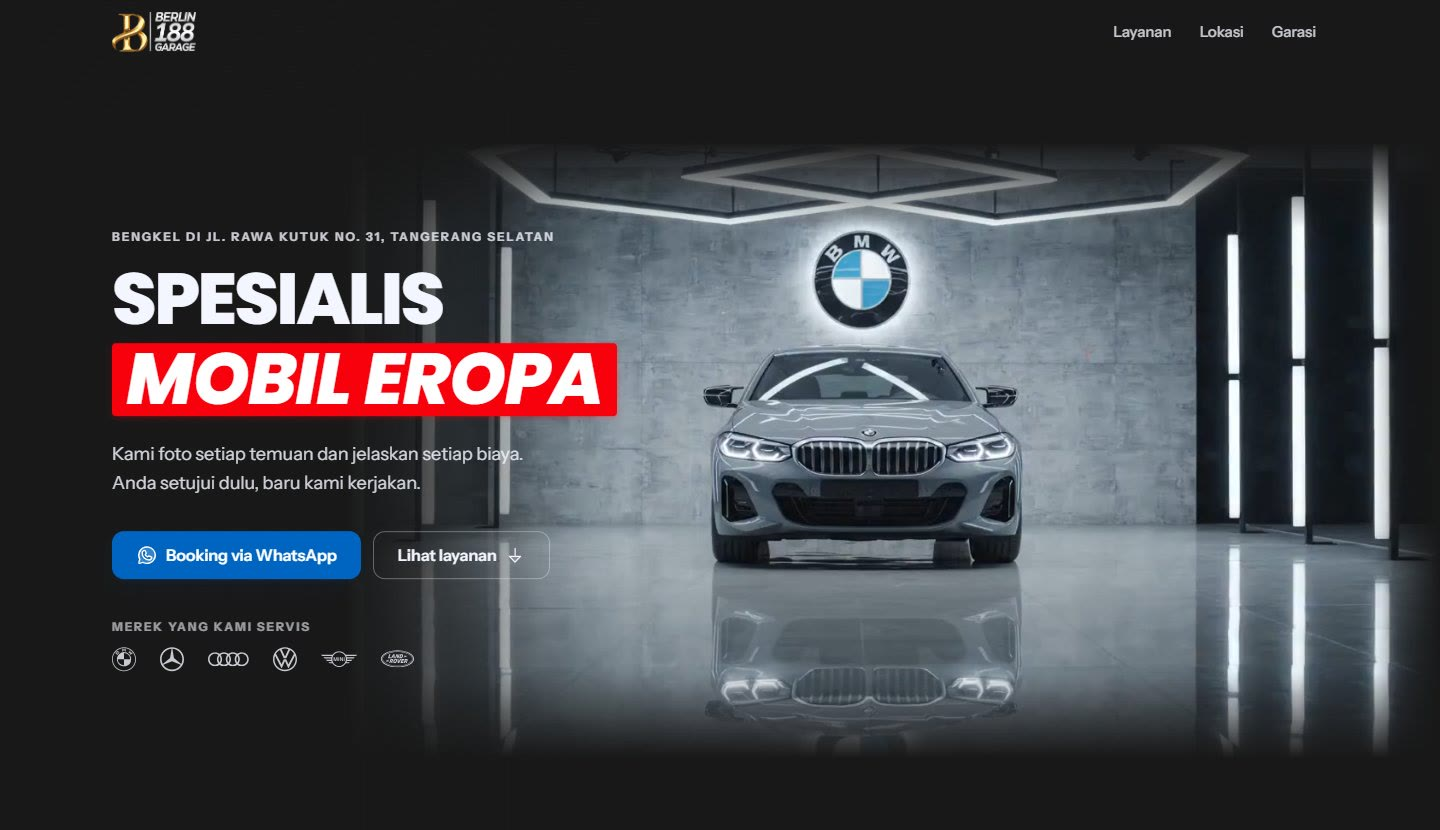
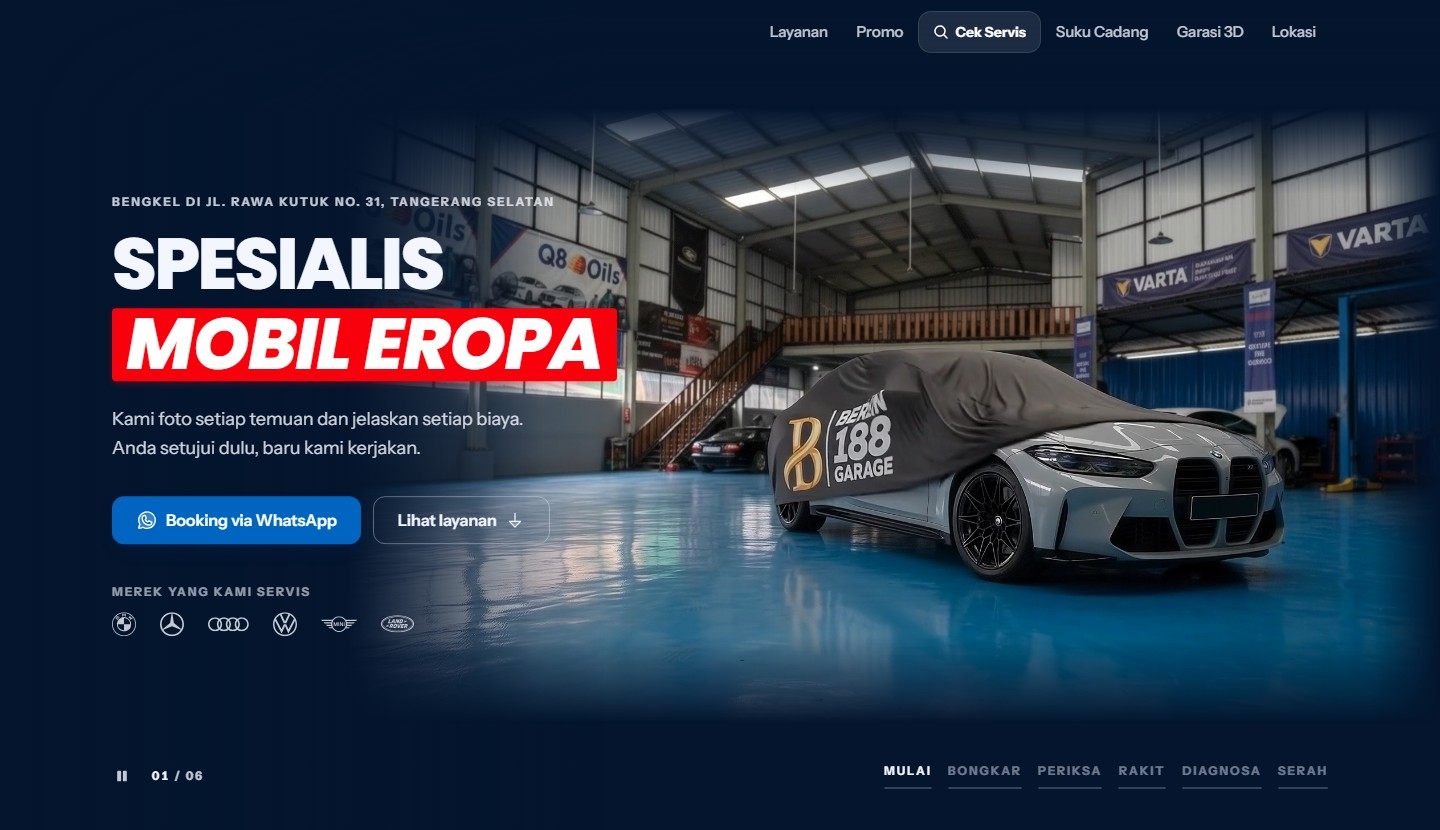
feat: keep only four live projects in Featured Work
- Keep Berlin 188 Garage, Robotshow.id, WaifuNova, and PT Trida Kimia Sakti

- Drop JagoBrand, BugHunter, and Alpha Gold Society entries and screenshots

- Point Berlin188 to berlin188.com (Vercel) instead of the Netlify demo

- Refresh screenshots from the live sites and remove repo links from cards

- Rewrite the section intro copy to match the new line-up

diff --git a/src/data.js b/src/data.js
@@ -160,96 +160,76 @@ export const softSkills = [
 
 export const projects = [
   {
-    id: "jagobrand",
-    title: "JagoBrand",
-    kind: "AI Content Copilot & Marketing Agent",
-    year: "2025",
+    id: "berlin188",
+    title: "Berlin 188 Garage",
+    kind: "European Car Workshop Platform",
+    year: "2026",
     summary:
-      "AI-powered content copilot engineered to craft viral copywriting, marketing hooks, and multi-platform social media posts in seconds with intelligent prompt chaining and brand voice tuning.",
+      "Public site for a European car workshop in Tangerang Selatan. The showroom opens like a garage door, the service story follows each car from teardown to handover, and every service ends in a WhatsApp booking.",
     points: [
-      "Automated viral hook generation, caption formulation, and targeted brand voice adaptation",
-      "Clean interactive dashboard with instant output preview and one-click copy workflows",
-      "Engineered with React, Vite, AI Agent prompt orchestration, and Tailwind CSS",
+      "Scroll-driven service anatomy (teardown, inspection, reassembly, diagnosis, handover) told across six European makes",
+      "Fourteen services in five groups, each with its own WhatsApp inquiry",
+      "Spare-part warehouse with 1,100+ parts, indent requests by VIN photo, and 24-hour towing",
+      "Garasi 3D, a service checker, and the Tanya Berlin assistant for visitors",
     ],
-    tech: ["React", "Vite", "AI Agent / LLMs", "Tailwind CSS", "Vercel"],
-    demo: "https://jagobrand.vercel.app/",
-    repo: "https://github.com/reyrs",
-    image: "/assets/proyek/jagobrand.jpg",
-    visual: "ai",
+    tech: ["React", "TypeScript", "GSAP ScrollTrigger", "Lenis", "Tailwind CSS", "Vercel"],
+    demo: "https://www.berlin188.com/",
+    image: "/assets/proyek/berlin188.jpg",
+    visual: "crud",
   },
   {
-    id: "bughunter",
-    title: "BugHunter",
-    kind: "Gamified Code QA & Debugging Game",
-    year: "2025",
+    id: "robotshow",
+    title: "Robotshow.id",
+    kind: "Humanoid Robot Rental Platform",
+    year: "2026",
     summary:
-      "Interactive speed-debugging web application challenging developers to spot and resolve real-world code defects, syntax errors, and race conditions before the 60-second countdown runs out.",
+      "Rental platform for AgiBot humanoid robots and robodogs at expos, malls, and product launches, complete with operators, delivery, and setup at the venue.",
     points: [
-      "Dynamic code snippet inspection across multiple difficulty tiers (Easy, Medium, Hard)",
-      "Real-time countdown timer, streak multiplier scoring, and instant diagnostic explanations",
-      "Infuses SDET testing rigor into a high-octane gamified developer experience",
+      "Fleet of five robot talents, from Humanoid Momo and Bimo to Robodog Heli, each with its own act and spec sheet",
+      "Interactive 3D casting room: rotate the robot 360°, drag limbs, and trigger scripted motions like wave, bow, handshake, and dance",
+      "AI concierge that recommends models and answers stage, pricing, and logistics questions",
+      "Trilingual content (Indonesian, English, Chinese) with booking and pricelist requests flowing into WhatsApp",
     ],
-    tech: ["Next.js", "React", "Tailwind CSS", "Lucide Icons", "Vercel"],
-    demo: "https://bug-hunter-delta.vercel.app/",
-    repo: "https://github.com/reyrs",
-    image: "/assets/proyek/bughunter.jpg",
-    visual: "game",
+    tech: ["React", "Vite", "GSAP", "Lenis", "i18n (ID / EN / 中文)", "GitHub Pages"],
+    demo: "https://robotshow.id/",
+    image: "/assets/proyek/robotshow.jpg",
+    visual: "ai",
   },
   {
     id: "waifunova",
     title: "WaifuNova",
-    kind: "Anime AI Persona Chat & Art Studio",
-    year: "2025",
+    kind: "Anime AI Companion & Art Studio",
+    year: "2026",
     summary:
-      "Next-gen generative AI companion platform featuring conversational anime character personas, contextual memory handling, and a high-fidelity WaifuArt generation studio.",
+      "Indonesian AI companion studio: pick one of five characters, chat any time, and turn a single sentence into an anime illustration.",
     points: [
-      "Interactive conversational agent with distinct persona prompts and fast streaming responses",
-      "WaifuArt generator engine integrating style controls (Detailed Anime, Manga, Chibi)",
-      "Built with Next.js, AI Agent orchestration, Tailwind CSS, and edge deployment",
+      "Five characters with their own voice, habits, and sense of humour: Sakura, Yumi, Aiko, Miku, and Reina",
+      "Per-character conversation history that continues the next day, with no sign-up or login",
+      "Illustration generator that turns one sentence about hair, outfit, and mood into anime artwork in seconds",
+      "Indonesian-first copy with light and dark themes, built on Next.js and deployed on Vercel",
     ],
     tech: ["Next.js", "AI Agents", "Prompt Engineering", "Tailwind CSS", "Vercel"],
     demo: "https://waifunova.vercel.app/",
-    repo: "https://github.com/reyrs",
     image: "/assets/proyek/waifunova.jpg",
     visual: "chat",
   },
   {
-    id: "alpha-gold",
-    title: "Alpha Gold Society",
-    kind: "VIP Gold Trading Community Platform",
-    year: "2025",
-    summary:
-      "A high-speed trading community platform where gold market traders analyze XAU/USD in real-time. Features live candlestick chart streaming, automated breakout indicators, and instant VIP signal alerts.",
-    points: [
-      "Live interactive TradingView candlestick charts with Bollinger bands & volume profiles",
-      "Integrated with Claude MCP & MetaTrader 5 (MT5) to evaluate setups against professional trader datasets",
-      "Automated signal distribution system broadcasting entry, TP, and SL targets to community traders",
-      "Successfully scaled to 20+ active VIP paying members within the first quarter",
-    ],
-    tech: ["Next.js", "Claude MCP", "MetaTrader 5", "TradingView API", "Tailwind CSS"],
-    demo: "https://alpha-gold-society-kappa.vercel.app/",
-    repo: "https://github.com/reyrs/alpha-gold-society",
-    image: "/assets/proyek/alphagold.jpg",
-    visual: "chart",
-  },
-  {
-    id: "berlin188-showroom",
-    title: "Berlin188 Garage",
-    kind: "Workshop Showroom Microsite",
+    id: "tridakimiasakti",
+    title: "PT Trida Kimia Sakti",
+    kind: "Agrochemical Profile & Product Catalog",
     year: "2026",
     summary:
-      "Public site for a European car workshop in Tangerang Selatan. Each car make and each stage of a service is presented as a scroll-driven scene, with booking handled through WhatsApp.",
+      "Profile and product catalogue for a national agrochemical company founded in 2001, covering molluscicides, insecticides, fungicides, and herbicides from planting to harvest.",
     points: [
-      "Showroom intro that opens like a garage door and moves through six makes: BMW, Mercedes-Benz, Audi, Volkswagen, MINI, and Land Rover",
-      "Service story that follows a car from teardown, inspection, and diagnosis to reassembly and handover as the visitor scrolls",
-      "Fourteen services in five categories, each with a direct WhatsApp inquiry",
-      "Asset pipeline that turns generated video clips into scroll-scrubbed sequences for desktop and mobile",
+      "Registered-product catalogue with active ingredients, formulation codes (EC, SL, WP, SC, WG), dosage, and target pests",
+      "Guide to reading a product name and safe spraying habits: read the label, wear PPE, measure the dose, store safely",
+      "Distribution map across five regions from Aceh to NTT, plus vision, mission, and company history",
+      "Trida AI assistant that answers from the official product list, with WhatsApp inquiry CTAs",
     ],
-    tech: ["React", "TypeScript", "GSAP ScrollTrigger", "Lenis", "Tailwind CSS", "Netlify"],
-    demo: "https://berlin188garage.netlify.app/",
-    repo: "https://github.com/reyrs/Berlin188Garage3D",
-    image: "/assets/proyek/berlin188.jpg",
-    visual: "crud",
+    tech: ["React", "Vite", "GSAP", "Lenis", "i18n (ID / EN / 中文)", "Vercel"],
+    demo: "https://tridakimiasakti.com/",
+    image: "/assets/proyek/tridakimiasakti.jpg",
+    visual: "qr",
   },
 ];
 

diff --git a/src/sections/Work.jsx b/src/sections/Work.jsx
@@ -203,7 +203,7 @@ export default function Work() {
             Systems I&apos;ve <span className="text-black italic">shipped.</span>
           </h2>
           <p className="mt-5 max-w-[38ch] text-[#6e6e73] leading-relaxed">
-            Real-world production platforms spanning algorithmic trading systems, autonomous AI agent pipelines, and banking-grade software.
+            Four production platforms, built end to end and live today: a European-car workshop, a humanoid robot rental fleet, an anime AI companion studio, and a national agrochemical catalogue.
           </p>
           <p className={`font-mono text-xs uppercase tracking-wider text-[#86868b] mt-10 hidden items-center gap-2 ${horizontal ? "lg:flex" : ""}`}>
             Scroll to explore projects <ArrowRight />
